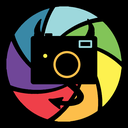
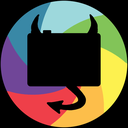
SS-1355: rebuild the mark from the file Sean re-saved.
Source is now projects/snapsmack-ca/img/logo-fediverse-snapsmack.png, 454x454,
replacing the 1000px drop. Derivative still one 128px PNG, 12KB, which covers
a 26px box at 3x.

ONE REAL DIFFERENCE BETWEEN THE TWO FILES, and it is in the new one's favour:
the art reaches every edge of the frame. The 1000px version sat in a black
margin filling 91% of the frame, so it read as a logo floating in a black
square. This one fills the tile.

STILL NO ALPHA, so the light-theme answer has not changed and I am not
guessing a cut. What HAS changed is that I measured it instead of describing
it. At the rendered 26px: 57% of the tile is visible ink and 45% is bright.
So it reads as a shape at that size rather than as a dark blob -- which was
the real question behind "does his camera read at 26px", and it is now a
number rather than my opinion.

On the dark reader the black meets the page and only the camera and aperture
read. On the light reader it is a dark tile on white, with the small radius
making that deliberate. A transparent version for light mode is still Sean's
file to supply if he wants one.

408 of 409 tests/*.php PASS.

NOT CHECKED: nobody has looked at it. Ink coverage says it is not a blob; it
does not say the camera is recognisable, and that is still Sean's eye.

diff --git a/assets/css/ss-pixel.css b/assets/css/ss-pixel.css
@@ -70,13 +70,20 @@ button{ font-family:inherit; cursor:pointer; }
    box is 26 CSS pixels -- 78 device pixels at 3x. 128px covers every density
    anyone will use and costs 12KB instead of 107KB on every reader page load.
 
-   IT HAS A BLACK BACKGROUND, which is the artwork as supplied and is not
-   something to guess a transparent cut out of. The art fills 91% of the
-   frame with a black margin all round, so on the DARK reader it disappears
-   into the page as intended. On the LIGHT reader it is a black tile on white.
-   The small radius is so that tile reads as deliberate rather than as a
-   rectangle somebody forgot. If a transparent version is wanted on light,
-   that is Sean's file to supply; nothing here invents one. */
+   SOURCE: projects/snapsmack-ca/img/logo-fediverse-snapsmack.png, the file
+   Sean re-saved, 454x454. Its art reaches every edge of the frame, unlike the
+   earlier 1000px version which sat in a black margin.
+
+   IT HAS NO ALPHA, which is the artwork as supplied and is not something to
+   guess a transparent cut out of. On the DARK reader the black meets the page
+   and only the camera and aperture read. On the LIGHT reader it is a dark
+   tile on white -- the small radius is so that tile looks deliberate rather
+   than like a rectangle somebody forgot. Measured, so this is not a guess:
+   at the rendered 26px, 57% of the tile is visible ink and 45% is bright, so
+   it reads as a shape rather than a dark blob at that size.
+
+   If a transparent version is wanted for the light reader, that is Sean's
+   file to supply; nothing here invents one. */
 .sx-brand .sx-mark{
   width:26px; height:26px; border-radius:6px; flex:0 0 auto;
   background-image:url("../img/fediverse-mark-128.png");
